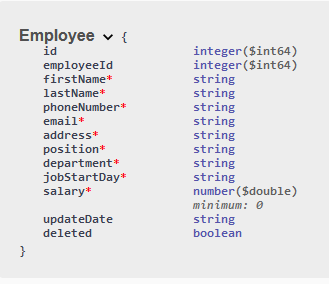
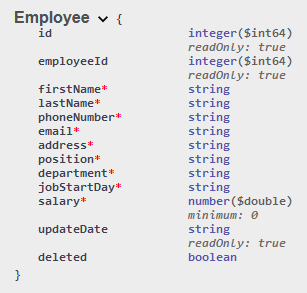
Modified README.md adn swagger

diff --git a/src/main/java/com/example/employeemanagementapi/models/Employee.java b/src/main/java/com/example/employeemanagementapi/models/Employee.java
@@ -21,48 +21,57 @@ import lombok.NoArgsConstructor;
 @Table(name = "employees")
 public class Employee {
 
-    @Schema(accessMode = Schema.AccessMode.READ_ONLY)
+    @Schema(accessMode = Schema.AccessMode.READ_ONLY, example = "1")
     @Id
     @GeneratedValue(strategy = GenerationType.IDENTITY)
     private Long id;
 
-    @Schema(accessMode = Schema.AccessMode.READ_ONLY)
+    @Schema(accessMode = Schema.AccessMode.READ_ONLY, example = "1001")
     @Column(unique = true)
     private Long employeeId;
 
     @NotBlank(message = "First name cannot be blank")
+    @Schema(example = "John")
     private String firstName;
 
     @NotBlank(message = "Last name cannot be blank")
+    @Schema(example = "Doe")
     private String lastName;
 
     @NotBlank(message = "Phone number cannot be blank")
+    @Schema(example = "123-456-7890")
     private String phoneNumber;
 
     @NotBlank(message = "Email cannot be blank")
     @Email(message = "Invalid email format")
+    @Schema(example = "john.doe@example.com")
     private String email;
 
     @NotBlank(message = "Address cannot be blank")
+    @Schema(example = "123 Main St, City")
     private String address;
 
     @NotBlank(message = "Position cannot be blank")
+    @Schema(example = "Software Engineer")
     private String position;
 
     @NotBlank(message = "Department cannot be blank")
+    @Schema(example = "Engineering")
     private String department;
 
     @NotBlank(message = "Job start day cannot be blank")
+    @Schema(example = "2024-01-31")
     private String jobStartDay;
 
     @NotNull(message = "Salary cannot be null")
     @Min(value = 0, message = "Salary must be greater than or equal to 0")
+    @Schema(example = "50000.0")
     private Double salary;
 
-    @Schema(accessMode = Schema.AccessMode.READ_ONLY)
+    @Schema(accessMode = Schema.AccessMode.READ_ONLY, example = "2024-01-31")
     private String updateDate;
 
-    @Schema(accessMode = Schema.AccessMode.READ_ONLY)
+    @Schema(accessMode = Schema.AccessMode.READ_ONLY, example = "false")
     private boolean isDeleted = false;
 
 }

diff --git a/README.md b/README.md
@@ -1,7 +1,8 @@
 ### Employee Management REST API
 
 Simple back-end API for `Employee Management Application`.
-Can find front-end at this repository: [JS-REACT]()
+Link to test REST API: [TEST LINK](https://employee-api-test-bfoj.onrender.com/swagger-ui/index.html)
+
 
 API has all CRUD operations:
 1. Get Employees.
